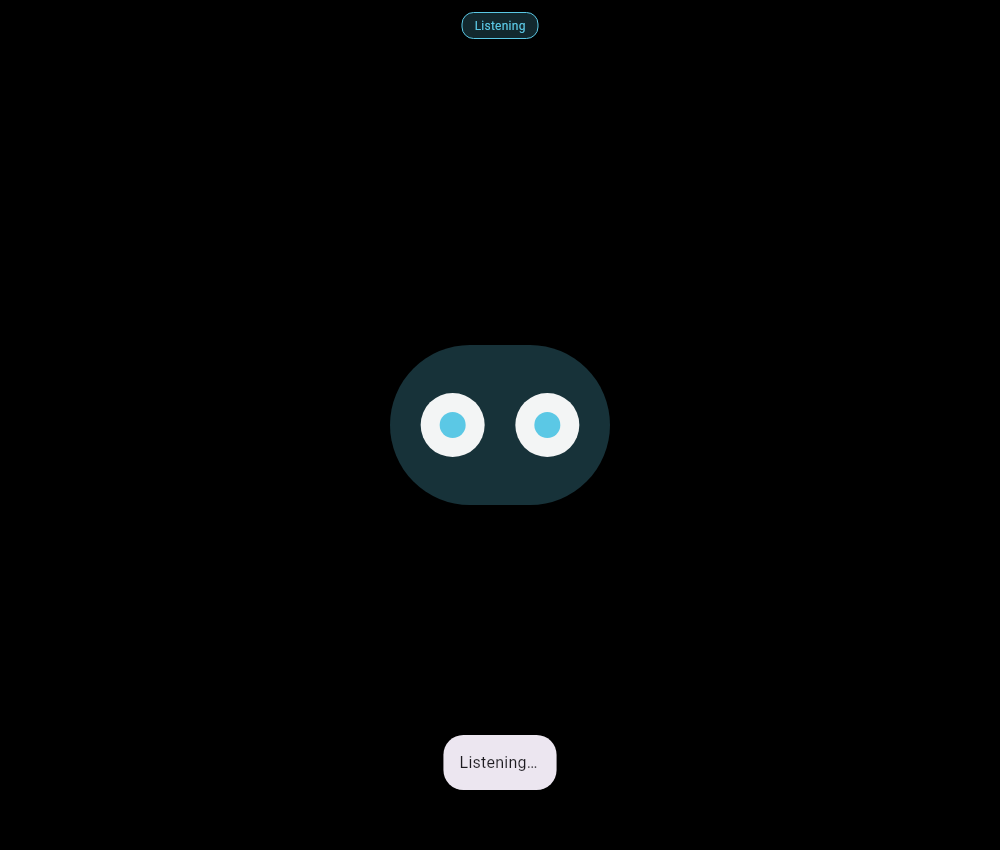
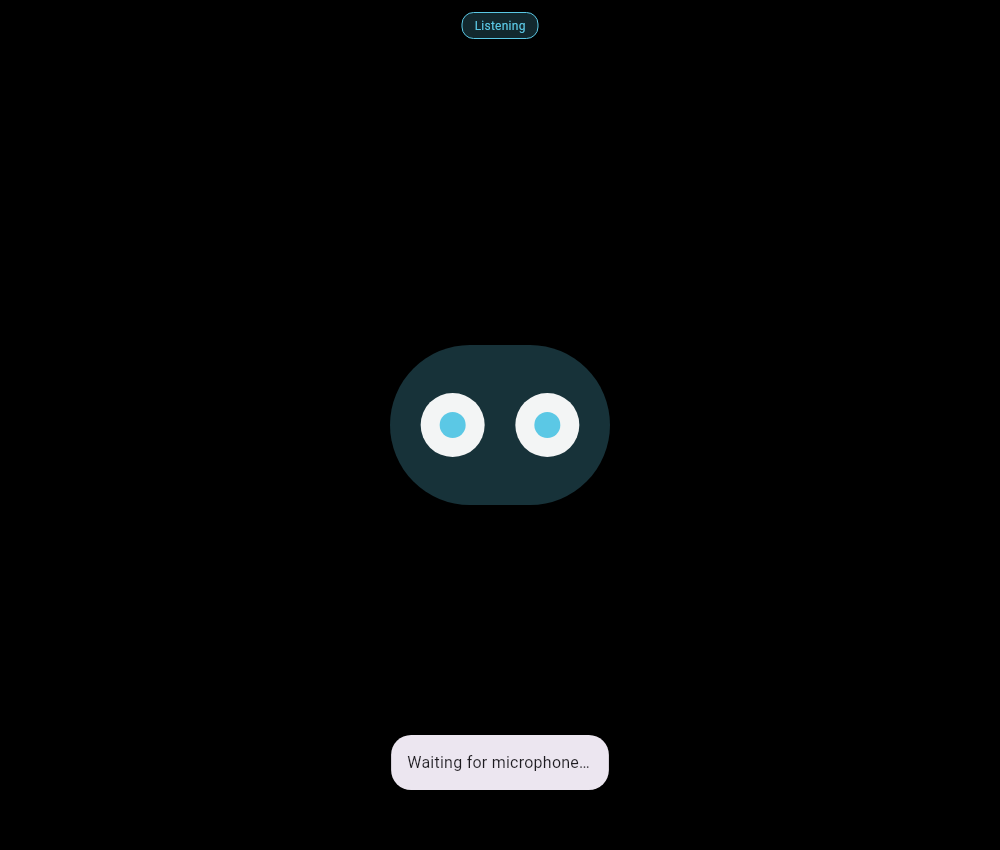
Retain capture uncertainty across every key send and stop path

Changed region(s): [[0.372, 0.8565, 0.62, 0.9482]]

diff --git a/test/key_recording_intent_test.dart b/test/key_recording_intent_test.dart
@@ -7,7 +7,7 @@ import 'package:local_bluey/services/key_recording_intent.dart';
 
 class Driver implements RecorderDriver {
   String? hold, fail, path;
-  bool permission = true, on = false;
+  bool permission = true, on = false, partialStart = false;
   int starts = 0, stops = 0;
   final entered = Completer<void>(), release = Completer<void>();
   Future<void> stage(String name) async {
@@ -29,6 +29,11 @@ class Driver implements RecorderDriver {
   Future<void> start(String p) async {
     starts++;
     path = p;
+    if (partialStart) {
+      on = true;
+      File(p).writeAsStringSync('partial');
+      throw StateError('private partial start');
+    }
     await stage('start');
     File(p).writeAsStringSync('synthetic');
     on = true;
@@ -211,6 +216,56 @@ void main() {
       expect(f.owner.cleanupPending, false);
     },
   );
+  for (final failure in ['partial-start', 'stop']) {
+    test(
+      '$failure uncertainty survives blocked fresh start send cancel dispose with no delivery',
+      () async {
+        final f = Fixture();
+        await f.init();
+        addTearDown(f.finish);
+        if (failure == 'partial-start') {
+          f.driver.partialStart = true;
+          await expectLater(
+            f.owner.start(),
+            throwsA(isA<KeyRecordingException>()),
+          );
+        } else {
+          await f.owner.start();
+          f.driver.fail = 'stop';
+          await expectLater(
+            f.owner.send(),
+            throwsA(isA<KeyRecordingException>()),
+          );
+        }
+        expect(f.driver.on, true);
+        final stops = f.driver.stops;
+        final starts = f.driver.starts;
+        f.driver.fail = null;
+        f.driver.partialStart = false;
+        await expectLater(
+          f.owner.start(),
+          throwsA(isA<KeyRecordingException>()),
+        );
+        await expectLater(
+          f.owner.send(),
+          throwsA(isA<KeyRecordingException>()),
+        );
+        await expectLater(
+          f.owner.cancel(),
+          throwsA(isA<KeyRecordingException>()),
+        );
+        await expectLater(
+          f.owner.disposeIntent(),
+          throwsA(isA<KeyRecordingException>()),
+        );
+        expect(f.owner.cleanupPending, true);
+        expect(f.driver.starts, starts);
+        expect(f.driver.stops, stops);
+        expect(f.delivered, isEmpty);
+        expect(f.driver.on, true);
+      },
+    );
+  }
   test(
     'failed delete retains exact file until explicit cancel retry',
     () async {

diff --git a/test/key_recording_pixels_test.dart b/test/key_recording_pixels_test.dart
@@ -1,4 +1,5 @@
 import 'dart:io';
+import 'dart:async';
 import 'dart:ui' as ui;
 
 import 'package:flutter/material.dart';
@@ -13,8 +14,13 @@ import 'package:local_bluey/services/key_recording_intent.dart';
 class Driver implements RecorderDriver {
   bool fail = true;
   bool startFail = false;
+  Completer<void>? entered, release;
   @override
   Future<bool> hasPermission() async {
+    if (entered != null) {
+      entered!.complete();
+      await release!.future;
+    }
     if (fail) throw StateError('private permission');
     return true;
   }
@@ -79,7 +85,7 @@ void main() {
                       'Could not finish key recording. Try again.',
                     KeyRecordingStatus.uncertain =>
                       'Key recording cleanup could not be verified.',
-                    KeyRecordingStatus.pending ||
+                    KeyRecordingStatus.pending => 'Waiting for microphone…',
                     KeyRecordingStatus.listening => 'Listening…',
                     _ => null,
                   },
@@ -115,12 +121,18 @@ void main() {
       expect(find.textContaining('private'), findsNothing);
       await shot('failure');
       driver.fail = false;
+      driver.entered = Completer<void>();
+      driver.release = Completer<void>();
       late Future<void> work;
       await t.runAsync(() async {
         work = owner.start();
       });
       await t.pump();
+      expect(driver.entered!.isCompleted, true);
+      expect(find.text('Waiting for microphone…'), findsOneWidget);
       await shot('pending');
+      driver.release!.complete();
+      driver.entered = null;
       await t.runAsync(() async {
         await work;
       });

diff --git a/lib/services/key_recording_intent.dart b/lib/services/key_recording_intent.dart
@@ -58,7 +58,8 @@ class KeyRecordingIntent extends ChangeNotifier {
   KeyRecordingStatus get status => _status;
 
   /// Unresolved entered capture stop or file deletion is retained for retry.
-  bool get cleanupPending => _captureOwned || _pendingFile != null;
+  bool get cleanupPending =>
+      _captureUncertain || _captureOwned || _pendingFile != null;
 
   bool _current(int session) => !_disposed && session == _session && _allowed();
   void _publish(int session, KeyRecordingStatus value) {
@@ -97,6 +98,7 @@ class KeyRecordingIntent extends ChangeNotifier {
   }
 
   Future<File?> _stopOwned() async {
+    if (_captureUncertain) throw const KeyRecordingException();
     if (!_captureOwned) return null;
     File? file;
     try {

diff --git a/lib/main.dart b/lib/main.dart
@@ -463,7 +463,7 @@ class _MacHomeState extends State<MacHome>
     if (!mounted || _safety.killed) return;
     setState(() {
       _bubble = switch (_keyRecording.status) {
-        KeyRecordingStatus.pending ||
+        KeyRecordingStatus.pending => 'Waiting for microphone…',
         KeyRecordingStatus.listening => 'Listening…',
         KeyRecordingStatus.denied => 'No microphone permission.',
         KeyRecordingStatus.empty => Strings.t(
